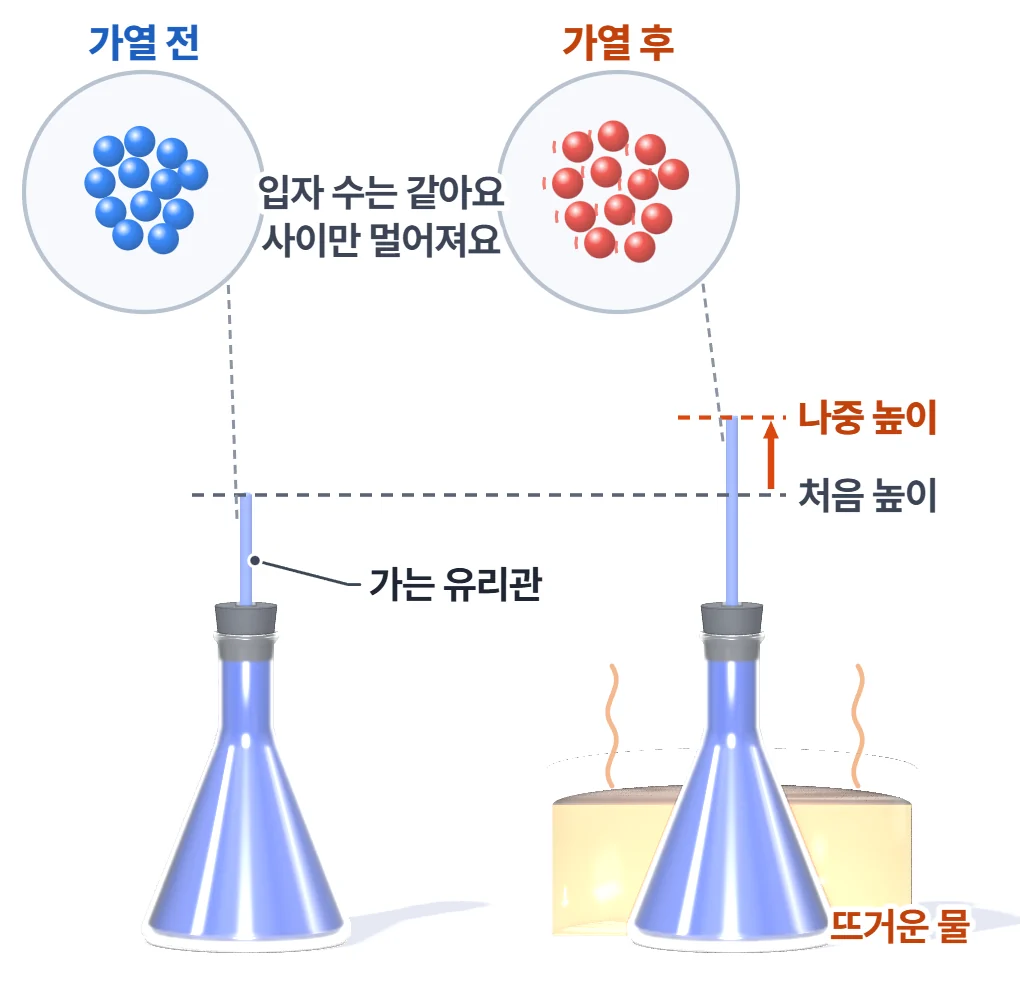
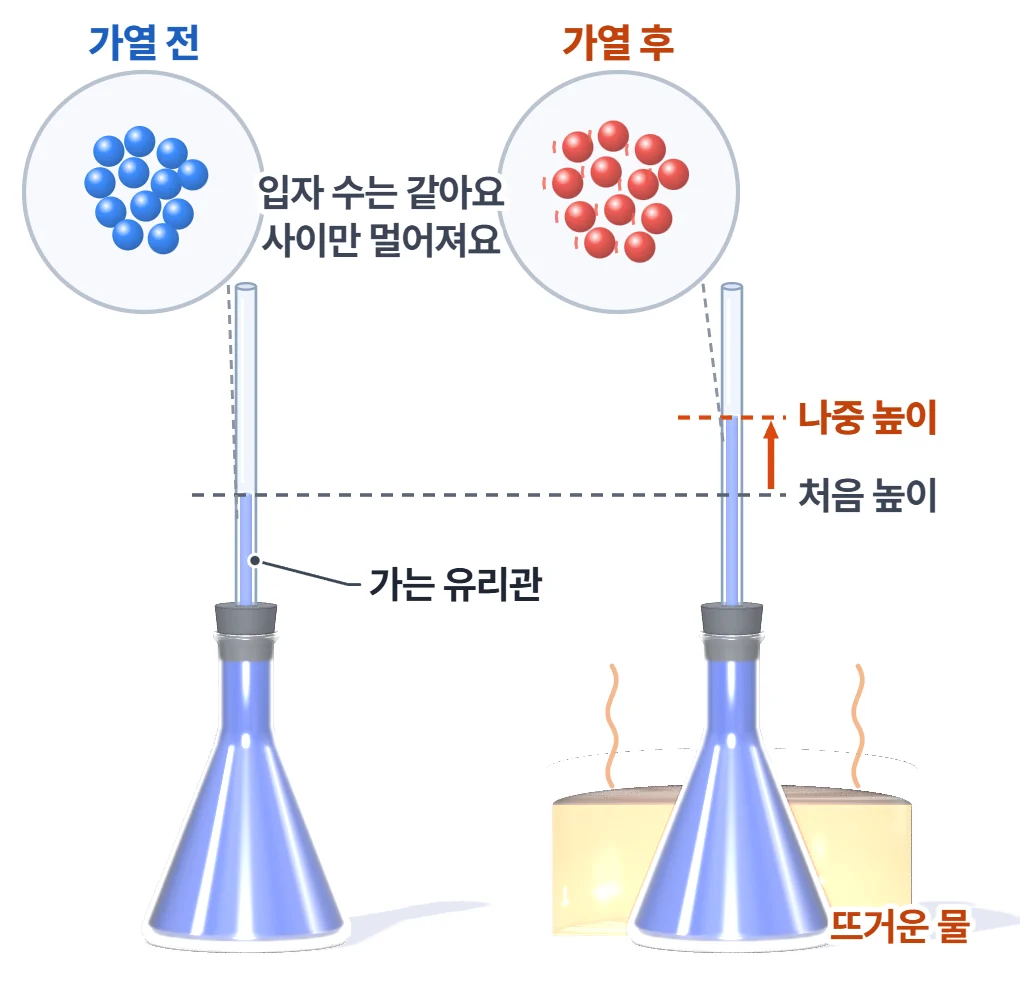
중1 도해 검수 뒤 고침: 다른 에이전트가 찾은 결함 열
- u5l4f1: 누를 때 손가락이 빨간 화살표에 덮여 손이 떨어져 보였다. 주먹 마디가 끝판에 바로 닿게.
- u3l5f1: 투명 유리관이 안 보여 관이 길어진 것처럼 읽혔다. 두 관의 빈 윗부분과 관 벽을 그림.
- u3l3f1: 복사 줄이 기둥에서 멈춰 손에 닿지 않았다. 두 줄을 손바닥에 겨냥, 냄비 지시선도 옮김.
- u4l4f2: 부푼 모습이 안 보였다. 두 병 테두리를 겉 유리로 긋고, 부푼 정도를 키우고 바깥 화살표.
- u5l5f1: 같은 정리 카드 끝의 옛 생성 확대 그림(u5-friction-zoom, 톱니 모양)을 글에서 뺌.
- u3l4f1: 식용유, 에탄올 병이 흰 바탕에 묻혔다. 유리 한 겹, 병 테두리, 짙은 액체 색.
- u6l3f1, u2l1f1: 지시선 끝과 세포 자리. u6l4f1: 부딪힘 표시 크기를 온도에 따라 벌림. u5l6f1: 컨테이너에서 화살표 색(초록, 빨강)을 빼고 화살표에 흰 테.
- 검산 메모마다 '검수 뒤 고친 것'을 적고, 안내서에 걸렸던 것을 더함. u4l3f1의 화살표 색(카드 짝 색)은 사용자 판단 거리로 남김.

Changed region(s): [[0.2127, 0.2727, 0.2735, 0.6061], [0.699, 0.2727, 0.7294, 0.6061]]

diff --git a/src/content/unit5v5parts.ts b/src/content/unit5v5parts.ts
@@ -378,7 +378,7 @@ const L5: U5Part = {
         name: "마찰력", color: "#F25757", art: miniArt("frictionArt"),
         text: "맞닿은 면에서 물체의 <b>운동을 방해하는 힘</b>. 방향은 움직이는(움직이려는) 방향과 <b>반대</b>예요.",
         examples: ["움직이려는 쪽과 반대", "움직이기 전에도 작용", "겹친 책이 안 빠짐"],
-        more: "<b class='rm-h'>왜 생길까요</b>매끈해 보이는 면도 크게 확대하면 울퉁불퉁해요. 두 면이 맞닿으면 튀어나온 곳끼리 걸려서 미끄러지는 것을 방해해요." + sciFigMore("u5l5f1") + "<b class='rm-h'>실험에서는</b>나무판을 기울이자 도막에는 빗면 위쪽을 향하는 빨간 화살표가 생겼어요. 미끄러져 내려가려는 것을 막는 힘이에요. 눕힌 나무판에서 도막을 오른쪽으로 끌 때는 빨간 화살표가 왼쪽을 향했고, 끄는 힘을 키우는 동안 똑같이 길어졌죠. 그동안 도막이 꼼짝하지 않은 것은 두 힘이 평형을 이뤘기 때문이에요.<b class='rm-h'>헷갈리기 쉬운 점</b>움직이지 않는 물체에는 마찰력이 없다고 생각하기 쉬워요. 끌어도 안 움직인다면 마찰력이 끄는 힘과 같은 크기로 버티는 중이에요." + rimg("u5-friction-zoom.webp", "맞닿은 면을 크게 확대하면 울퉁불퉁한 곳이 서로 걸려 있어요"),
+        more: "<b class='rm-h'>왜 생길까요</b>매끈해 보이는 면도 크게 확대하면 울퉁불퉁해요. 두 면이 맞닿으면 튀어나온 곳끼리 걸려서 미끄러지는 것을 방해해요." + sciFigMore("u5l5f1") + "<b class='rm-h'>실험에서는</b>나무판을 기울이자 도막에는 빗면 위쪽을 향하는 빨간 화살표가 생겼어요. 미끄러져 내려가려는 것을 막는 힘이에요. 눕힌 나무판에서 도막을 오른쪽으로 끌 때는 빨간 화살표가 왼쪽을 향했고, 끄는 힘을 키우는 동안 똑같이 길어졌죠. 그동안 도막이 꼼짝하지 않은 것은 두 힘이 평형을 이뤘기 때문이에요.<b class='rm-h'>헷갈리기 쉬운 점</b>움직이지 않는 물체에는 마찰력이 없다고 생각하기 쉬워요. 끌어도 안 움직인다면 마찰력이 끄는 힘과 같은 크기로 버티는 중이에요.",
       },
       {
         name: "크기를 정하는 것", color: "#B0764A", art: miniArt("roughArt"),

diff --git a/src/content/sciFigG1.ts b/src/content/sciFigG1.ts
@@ -99,7 +99,7 @@ const FIGS: Record<string, SciFig> = {
   },
   u5l4f1: {
     w: 340, h: 312,
-    alt: "벽에 한끝을 고정한 같은 용수철 두 장면. 위에 원래 길이의 용수철이 점선 윤곽으로 있고 원래 끝 자리에 세로 점선이 있다. (가) 당길 때 손이 고리를 쥐고 오른쪽으로 당겨 용수철이 4 cm 늘어났다. 손과 고리가 닿은 점에서 파란 당기는 힘 2 N이 오른쪽으로, 빨간 탄성력 2 N이 왼쪽으로 같은 길이로 뻗는다. (나) 누를 때 손가락이 끝판을 왼쪽으로 눌러 4 cm 줄어들었다. 같은 점에서 파란 미는 힘 2 N이 왼쪽으로, 빨간 탄성력 2 N이 오른쪽으로 뻗는다.",
+    alt: "벽에 한끝을 고정한 같은 용수철 두 장면. 위에 원래 길이의 용수철이 점선 윤곽으로 있고 원래 끝 자리에 세로 점선이 있다. (가) 당길 때 손이 고리를 쥐고 오른쪽으로 당겨 용수철이 4 cm 늘어났다. 손과 고리가 닿은 점에서 파란 당기는 힘 2 N이 오른쪽으로, 빨간 탄성력 2 N이 왼쪽으로 같은 길이로 뻗는다. (나) 누를 때 주먹이 끝판을 왼쪽으로 눌러 4 cm 줄어들었다. 같은 점에서 파란 미는 힘 2 N이 왼쪽으로, 빨간 탄성력 2 N이 오른쪽으로 뻗는다.",
     cap: "탄성력은 늘 변형시킨 힘과 반대쪽이에요",
   },
   u5l4f2: {

diff --git a/qa/scifig-g1/figs/u5l5f1.md b/qa/scifig-g1/figs/u5l5f1.md
@@ -9,3 +9,6 @@
 3. 확대 그림: 위는 도막 아랫면, 아래는 판 윗면. 둘 다 매끈한 무작위 굴곡(같은 모양의 반복이나 톱니가 아니다). 도막을 판 위에 내려놓듯 위 면을 내려 가장 높은 돌기끼리 닿게 했고,
    맞닿은 곳은 세 곳뿐, 나머지는 틈이 비어 있다. 닿은 곳마다 작은 빨간 화살표(왼쪽).
 4. 도막이 판에 박히거나 판이 휘지 않는다. 입자 크기의 그림이 아니다(입자라는 말을 쓰지 않는다). "아주 매끈하면 마찰력이 없다"는 뜻을 주지 않는다.
+
+## 검수 뒤 고친 것(2026-11-15, 다른 에이전트의 눈검수와 글자 13px 뒤)
+- 같은 정리 카드 끝에 남아 있던 옛 생성 그림 `public/recap/u5-friction-zoom.webp`(톱니처럼 맞물린 확대 그림, 같은 내용이 화풍만 달리 두 번)를 글에서 뺐다. 파일은 남겨 두었다.

diff --git a/qa/scifig-g1/figs/u6l3f1.md b/qa/scifig-g1/figs/u6l3f1.md
@@ -9,3 +9,6 @@
 2. (나) 착지할 때 주머니 부피가 작다(높이 28 → 15, 옆이 조금 불룩). 입자가 가까이 모이고 안벽 부딪힘 표시가 늘어난다(2곳 → 6곳).
 3. 누르는 힘은 큰 화살표 하나(아래로), 되미는 쪽은 안벽에서 바깥쪽으로 미는 작은 화살표 여럿. 화살표 길이로 어느 쪽이 '이긴다'고 읽히게 그리지 않는다.
 4. 바닥 고무는 땅에 닿아 있고 폼은 조금만 눌린다(밑창 윗면 12px 내려감).
+
+## 검수 뒤 고친 것(2026-11-15, 다른 에이전트의 눈검수와 글자 13px 뒤)
+- (가)의 '공기 주머니' 지시선 끝이 입자 위에 얹혀 있었다. 주머니 왼쪽 끝 테두리로 옮기고, '밑창' 끝은 주머니 오른쪽 옆의 폼으로 옮겼다. 글자 13px로 오른쪽 끝에서 잘리던 '부피가 줄고, 기체가 세게 되밀어요'는 두 줄로 나눴다.

diff --git a/qa/scifig-g1/figs/u3l4f1.md b/qa/scifig-g1/figs/u3l4f1.md
@@ -9,3 +9,6 @@
 2. 막대는 0에서 시작하는 같은 눈금(0, 0.5, 1). 물 막대는 철의 약 9배(1 ÷ 0.11 ≈ 9.1, 정리 카드 0의 '약 9배'와 맞음). 물만 강조 색.
 3. 얼음(물의 약 0.5배)은 넣지 않는다: 같은 물질도 상태가 바뀌면 비열이 달라서 카드 0의 "뜨겁든 차갑든 그 물질의 비열은 같아요"와 부딪힌다.
 4. 단위(J)와 '25 ℃'는 쓰지 않는다. 작은 값에서 큰 값 차례.
+
+## 검수 뒤 고친 것(2026-11-15, 다른 에이전트의 눈검수와 글자 13px 뒤)
+- 식용유와 에탄올 병이 흰 바탕에 묻혔다(양면 유리 두 겹과 흰 반사가 속 액체를 덮음). 유리를 앞면 한 겹으로 옅게 하고, 병 테두리를 회전체 윤곽 그대로 긋고, 식용유는 짙은 노랑, 에탄올은 옅은 파랑(본래 무색이지만 액체로 읽히게)으로 채웠다.

diff --git a/qa/scifig-g1/figs/u4l4f2.md b/qa/scifig-g1/figs/u4l4f2.md
@@ -11,3 +11,6 @@
 4. 물: 이웃과 닿을 만큼 가깝지만 줄이 없다(u4l4f1의 액체와 같은 방법).
 5. 얼음 창의 넓이는 물 창의 1.120배(코드가 확인). 실제 부피 비 1.09를 보이게 조금 키우되 두 배처럼 과장하지 않았다.
 6. 분자 모양이나 막대(결합)를 그리지 않았다(중1은 '입자').
+
+## 검수 뒤 고친 것(2026-11-15, 다른 에이전트의 눈검수와 글자 13px 뒤)
+- 얼리기 전 점선이 얼린 병 테두리와 거의 겹쳐 부푼 모습이 안 보였고, 점선이 물 병보다 넓었다(점선은 겉 유리, 보이는 것은 속 물). 두 병 모두 겉 유리 테두리를 긋고(점선과 물 병 테두리가 같아짐), 부푼 정도를 몸통 10%, 바닥 7px로 하고 옆에 작은 바깥 화살표를 더했다.

diff --git a/qa/scifig-g1/figs/u3l3f1.md b/qa/scifig-g1/figs/u3l3f1.md
@@ -10,3 +10,6 @@
 4. 사람(두 손)은 불 위가 아니라 옆에 있다(불 위면 올라오는 더운 공기, 곧 대류도 받는다).
 5. 냄비 걸이는 양옆 기둥과 가로대(가운데 뒤에 막대가 있으면 냄비와 불을 꿰뚫는 막대처럼 보여 세 다리 걸이를 버렸다).
 6. Ⅲ단원 말은 '열'. 보조 글: 흔들림이 차례로, 물이 직접 돌며, 물질 없이 곧게.
+
+## 검수 뒤 고친 것(2026-11-15, 다른 에이전트의 눈검수와 글자 13px 뒤)
+- 오른쪽 복사 줄이 걸이 기둥에서 끝나 기둥이 막는 것처럼 보였다. 두 줄을 두 손바닥에 정확히 겨냥해 기둥 앞을 지나 닿게 했다. '냄비 속 물' 지시선 끝은 대류 고리가 없는 왼쪽 위 물로 옮겼다.

diff --git a/qa/scifig-g1/figs/u5l6f1.md b/qa/scifig-g1/figs/u5l6f1.md
@@ -9,3 +9,6 @@
 3. 화살표 길이 = 잠긴 깊이 × 1.55: (가) 23.3, (나) 46.5(1 : 2, 잠긴 부피 비와 같음).
 4. 수면은 곧은 선(물결로 깊이 견주기를 흐리지 않는다). 잠긴 부분은 빗금. 바닷물은 반투명 파랑이라 물속 선체가 보인다.
 5. 배 밑 빨간 도료는 바닥부터 31까지: 빈 배는 물 위로 드러나고 짐을 실으면 거의 잠긴다(실제 배와 같은 모습, 내용과는 무관한 꾸밈).
+
+## 검수 뒤 고친 것(2026-11-15, 다른 에이전트의 눈검수와 글자 13px 뒤)
+- (나)의 초록 부력 화살표 머리가 초록 컨테이너와 섞였다. 컨테이너 색에서 초록과 빨강(두 힘의 색)을 빼고, 두 화살표에 흰 테를 둘렀다.

diff --git a/qa/scifig-g1/figs/u6l4f1.md b/qa/scifig-g1/figs/u6l4f1.md
@@ -10,3 +10,6 @@
 3. 바깥에서 누르는 힘 화살표는 셋 다 같은 길이(압력 일정). 속 압력이 커졌다고 쓰지 않았다.
 4. 부딪힘 표시는 셋 다 3개, 크기만 온도에 따라 크게('세게'). 뜨거운 쪽에 수를 더 그리지 않았다.
 5. 피스톤은 자유롭게 움직인다. 같은 막대라 부피가 클수록 누르개가 높다. 가장 줄어든 0 ℃에도 누르개는 손가락 걸이 위에 남는다.
+
+## 검수 뒤 고친 것(2026-11-15, 다른 에이전트의 눈검수와 글자 13px 뒤)
+- 부딪힘 표시가 세 온도에서 같은 크기로 보였다. 수는 셋 다 3개로 두고 크기만 0.77, 0.98, 1.55배로 벌렸다(뜨거울수록 세게).

diff --git a/qa/scifig-g1/figs/u5l4f1.md b/qa/scifig-g1/figs/u5l4f1.md
@@ -10,3 +10,6 @@
 3. 화살표는 손과 용수철이 닿은 점(검은 점)에서 시작. 탄성력은 늘 변형시킨 힘과 반대.
 4. 감김 간격은 고르게: 늘이면 17px, 누르면 9.7px(철사 지름 2.9px보다 커서 닿지 않음).
 5. 원래 길이 윤곽과 원래 끝 자리의 세로 점선은 두 장면에서 같은 자리. 벽 쪽의 힘은 그리지 않았다.
+
+## 검수 뒤 고친 것(2026-11-15, 다른 에이전트의 눈검수와 글자 13px 뒤)
+- (나)에서 손가락이 빨간 탄성력 화살표에 덮여 손이 끝판에서 떨어져 보였다. 주먹의 마디 쪽이 끝판에 바로 닿게 바꿨다(닿은 점에서 두 화살표가 시작하는 것은 그대로).

diff --git a/qa/scifig-g1/figs/u3l5f1.md b/qa/scifig-g1/figs/u3l5f1.md
@@ -14,3 +14,6 @@
 ## 기하 수치(설계 px, 월드 = px)
 - 플라스크 바닥 반지름 35, 목 반지름 9.5, 목 끝 높이 104. 관 반지름 2.2, 처음 높이 150, 나중 높이 176(플라스크 바닥 기준).
 - 액체는 불투명 재질로 그린다(투과 재질끼리는 서로 비추지 못해 유리 속 액체가 사라졌다).
+
+## 검수 뒤 고친 것(2026-11-15, 다른 에이전트의 눈검수와 글자 13px 뒤)
+- 입체의 투명 유리관이 흰 바탕에서 거의 안 보여, 관이 액체 끝에서 끝나고 가열 뒤 관이 길어진 것처럼 읽혔다. 두 관의 빈 윗부분과 관 벽을 덧그려 두 관의 길이가 같음을 보였다.
